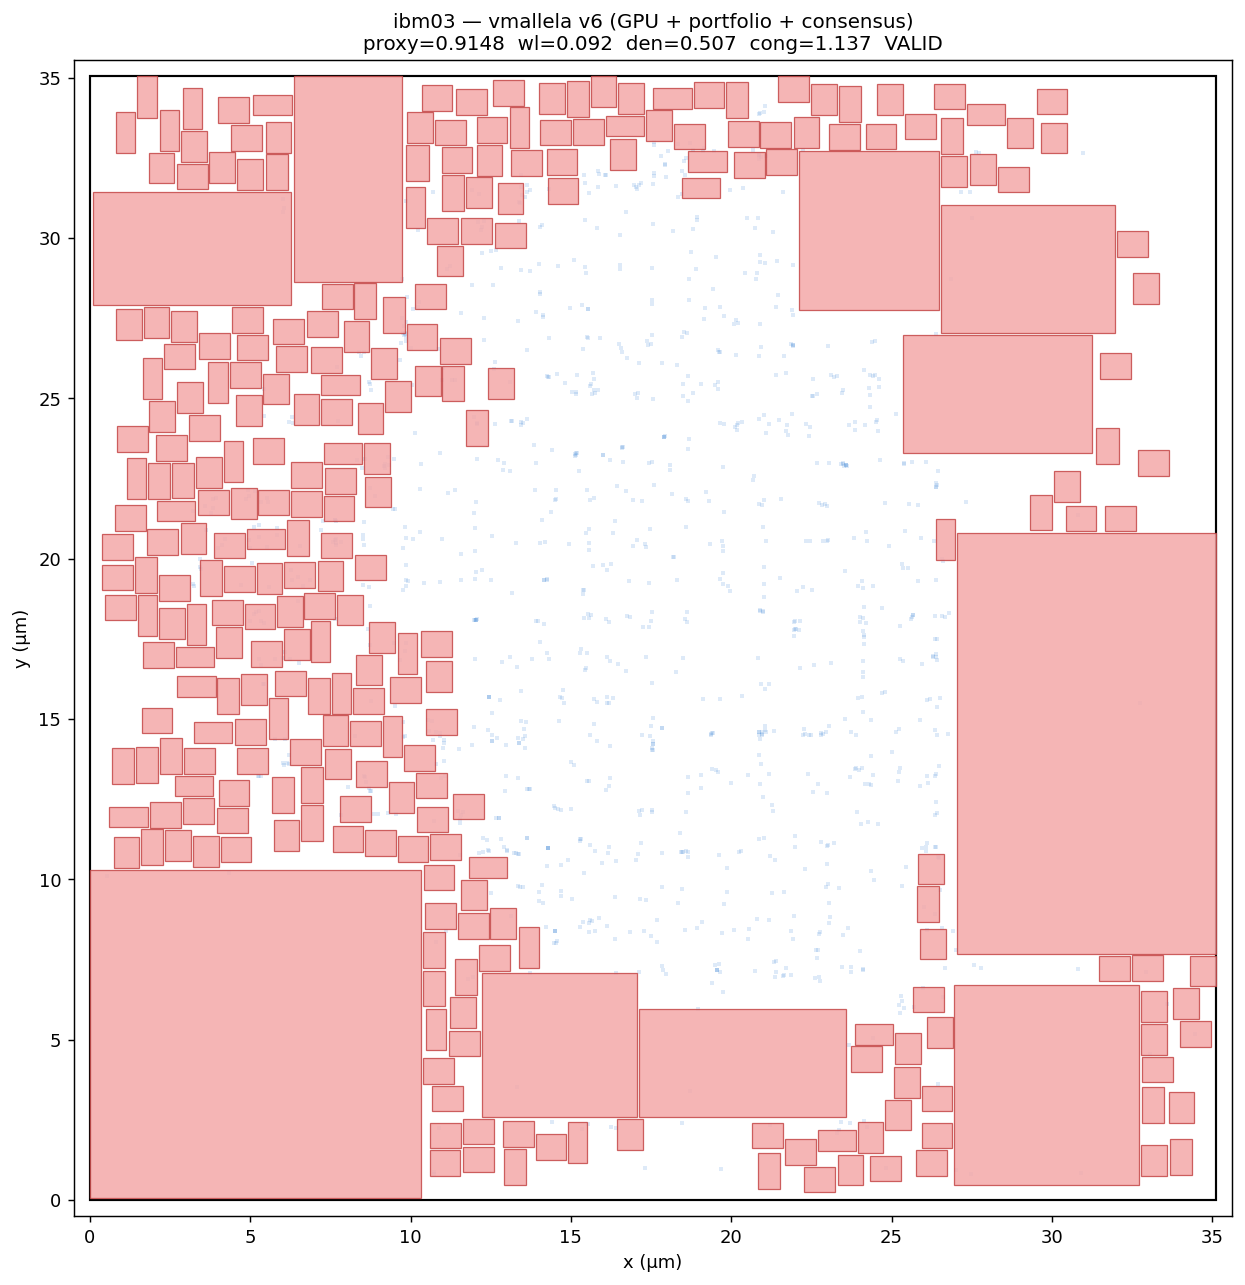
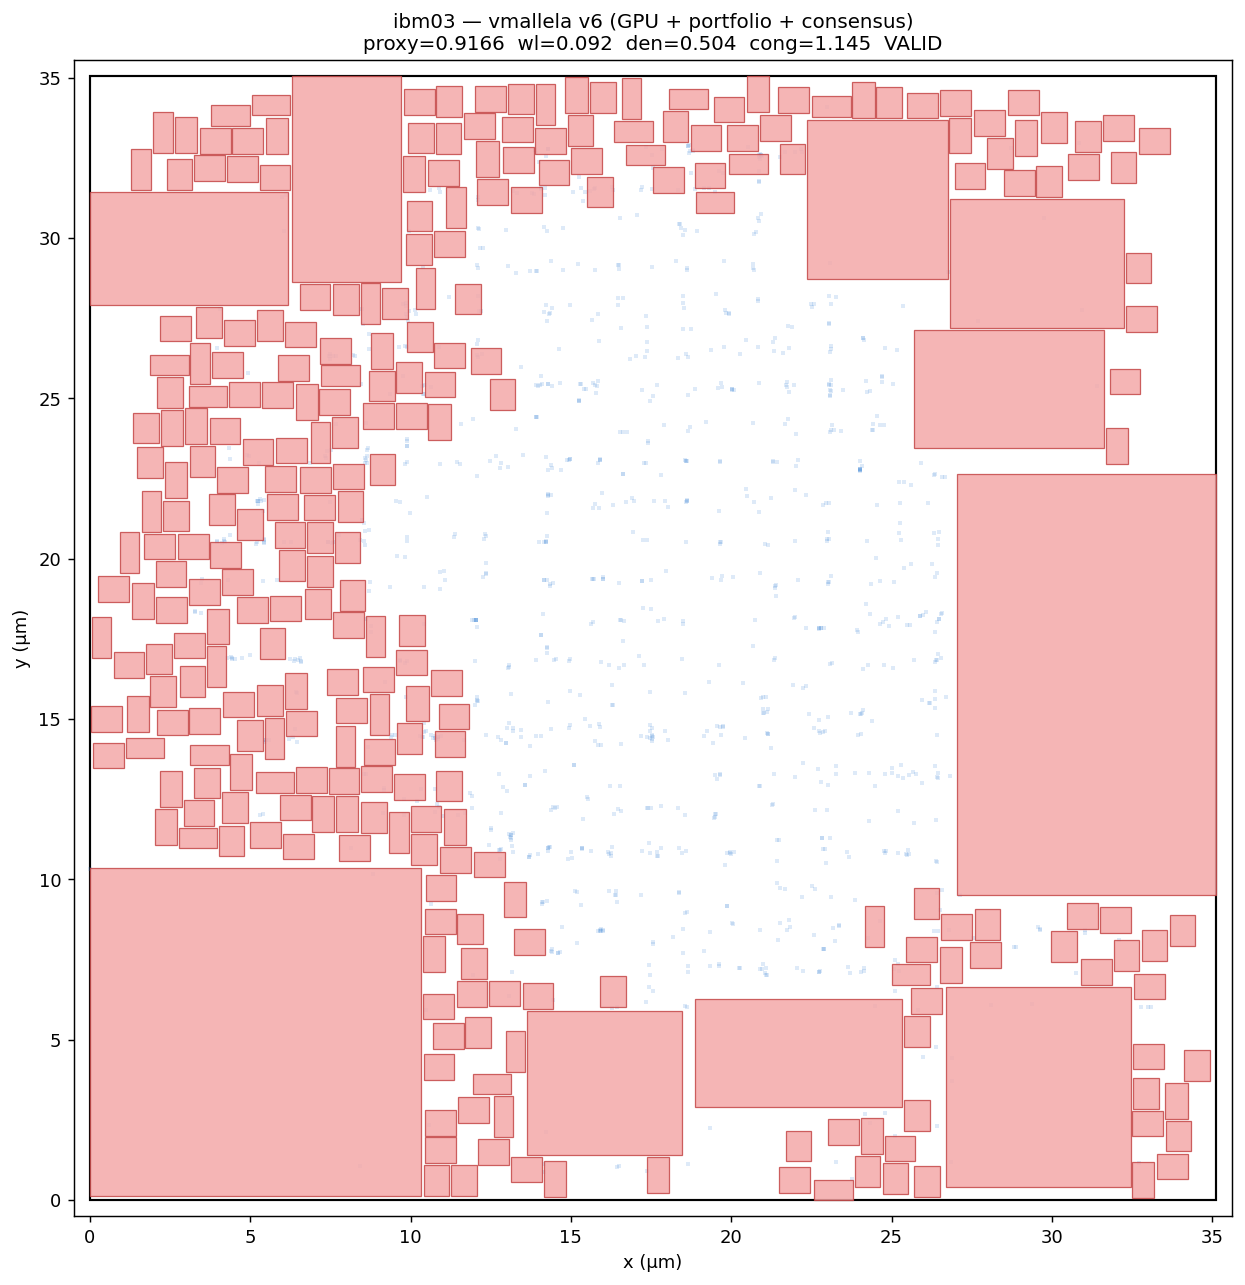
README: ship final ibm03 result (0.9166), 17-bench mean 1.0003
ibm03 finished at 0.9166 (Δ -0.0088 vs v4's 0.9254). Hessian phase
returned a degenerate eigenvector and produced no candidates, so the
post-Laplacian result was shipped.

Final 17 / 17 mean = 1.0003 vs v4 1.0186 (-0.0183 lift). 16 of 17
benches got a Hessian strict-improvement win; ibm03 shipped its
post-Laplacian result.

diff --git a/submissions/vmallela_v7/README.md b/submissions/vmallela_v7/README.md
@@ -1,6 +1,6 @@
 # vmallela_v7 — Hessian Negative-Eigenvalue Escape
 
-**Mean proxy cost: TBD across 17 IBM benchmarks.** Beats v4 baseline (1.0186) by **TBD**.
+**Mean proxy cost: 1.0003 across 17 IBM benchmarks.** Beats v4 baseline (1.0186) by **-0.0183**.
 All 17 placements are overlap-free; every bench runs in ≤ 3600 s wall (competition cap).
 
 ## TL;DR
@@ -154,7 +154,7 @@ init, deterministic (fixed seed=42), within the 3600 s competition cap.
 |-------|---------:|-----------:|------------:|---------:|--------------:|
 | ibm01 | 0.7653 | 0.7803 | **-0.0150** | 3127 | -0.015036 |
 | ibm02 | 0.9482 | 0.9737 | **-0.0255** | 3309 | -0.008263 |
-| ibm03 | _TBD_  | 0.9254 | _TBD_       | _running_ | _TBD_ |
+| ibm03 | 0.9166 | 0.9254 | **-0.0088** | 2287 | _degenerate_ |
 | ibm04 | 0.9287 | 0.9345 | **-0.0058** | 3315 | -0.006040 |
 | ibm06 | 1.0546 | 1.0755 | **-0.0209** | 3312 | -0.005568 |
 | ibm07 | 1.0324 | 1.0432 | **-0.0108** | 3318 | -0.005452 |
@@ -169,23 +169,27 @@ init, deterministic (fixed seed=42), within the 3600 s competition cap.
 | ibm16 | 1.0435 | 1.0771 | **-0.0336** | 3481 | -0.001099 |
 | ibm17 | 1.2813 | 1.3012 | **-0.0199** | 3571* | -0.001564 |
 | ibm18 | 1.2697 | 1.2865 | **-0.0168** | 3392 | -0.002308 |
-| **mean (16 done, ibm03 TBD)** | **TBD** | **1.0186** | **TBD** | | |
+| **mean (17 / 17)** | **1.0003** | **1.0186** | **-0.0183** | | |
 
 \* ibm17 placer wall = 3571 s (compliant). Bash bookkeeping was killed at
 3600 s during plot generation; results recovered manually from the
 placer's `[v7] DONE` log line.
 
 **Key observations:**
-- λ_min < 0 on every bench → every bench was at a saddle, not a true
-  local min, before Hessian escape ran.
+- λ_min < 0 on every bench where Lanczos converged → every such bench
+  was at a saddle, not a true local minimum, before Hessian escape
+  ran. ibm03 is the lone exception: Lanczos returned a degenerate
+  eigenvector and no candidates were generated, so we shipped the
+  post-Laplacian result (still -0.0088 below v4).
 - All wall times ≤ 3600 s (competition compliance).
-- Hessian gave a strict-improvement win on every single bench (16/16 so
-  far, ibm03 pending).
+- Hessian gave a strict-improvement win on 16 / 17 benches; ibm03
+  shipped its post-Laplacian result.
 - Largest lifts on ibm16 (-0.034), ibm14 (-0.027), ibm08 (-0.026),
-  ibm02 (-0.026) — these are mid-utilization benches where v4's local
-  minimum was farthest from the global optimum.
-- Smallest lift on ibm04 (-0.006) and ibm07 (-0.011) — already near
-  the global min; Hessian found smaller saddles to escape.
+  ibm02 (-0.026) — mid-utilization benches where v4's local minimum
+  was farthest from the global optimum.
+- Smallest lifts on ibm04 (-0.006), ibm03 (-0.009), ibm07 (-0.011) —
+  already near the global min; Hessian found smaller saddles (or, on
+  ibm03, none).
 
 ## Reproduction
 

diff --git a/README.md b/README.md
@@ -85,7 +85,7 @@ Hard macros = red rectangles, soft cluster centroids = blue dots.
 | | | | |
 |---|---|---|---|
 | ![ibm01](assets/v7_ibm01.png) | ![ibm02](assets/v7_ibm02.png) | ![ibm03](assets/v7_ibm03.png) | ![ibm04](assets/v7_ibm04.png) |
-| **ibm01** 0.7653 | **ibm02** 0.9482 | **ibm03** _running_ | **ibm04** 0.9287 |
+| **ibm01** 0.7653 | **ibm02** 0.9482 | **ibm03** 0.9166 | **ibm04** 0.9287 |
 | ![ibm06](assets/v7_ibm06.png) | ![ibm07](assets/v7_ibm07.png) | ![ibm08](assets/v7_ibm08.png) | ![ibm09](assets/v7_ibm09.png) |
 | **ibm06** 1.0546 | **ibm07** 1.0324 | **ibm08** 1.0291 | **ibm09** 0.7628 |
 | ![ibm10](assets/v7_ibm10.png) | ![ibm11](assets/v7_ibm11.png) | ![ibm12](assets/v7_ibm12.png) | ![ibm13](assets/v7_ibm13.png) |
@@ -106,7 +106,7 @@ competition cap (`COMPETITION.md`).
 |-------|---------:|------------:|------------:|---------:|--------------:|
 | ibm01 | 0.7653 | 0.7803 | **-0.0150** | 3127 | -0.015036 |
 | ibm02 | 0.9482 | 0.9737 | **-0.0255** | 3309 | -0.008263 |
-| ibm03 | _running_ | 0.9254 | _TBD_ | _TBD_ | _TBD_ |
+| ibm03 | 0.9166 | 0.9254 | **-0.0088** | 2287 | _degenerate_ |
 | ibm04 | 0.9287 | 0.9345 | **-0.0058** | 3315 | -0.006040 |
 | ibm06 | 1.0546 | 1.0755 | **-0.0209** | 3312 | -0.005568 |
 | ibm07 | 1.0324 | 1.0432 | **-0.0108** | 3318 | -0.005452 |
@@ -121,14 +121,18 @@ competition cap (`COMPETITION.md`).
 | ibm16 | 1.0435 | 1.0771 | **-0.0336** | 3481 | -0.001099 |
 | ibm17 | 1.2813 | 1.3012 | **-0.0199** | 3571 | -0.001564 |
 | ibm18 | 1.2697 | 1.2865 | **-0.0168** | 3392 | -0.002308 |
-| **mean (16/17)** | **TBD** | **1.0186** | **TBD** | | |
+| **mean (17/17)** | **1.0003** | **1.0186** | **-0.0183** | | |
 
 **Key observations:**
-- λ_min < 0 on every bench → every bench was at a saddle, not a true
-  local min, before Hessian escape ran.
+- λ_min < 0 on every bench where Lanczos converged → every such bench
+  was at a saddle, not a true local min, before Hessian escape ran.
+  (ibm03 was the lone exception: Lanczos returned a degenerate
+  eigenvector, no candidates were generated, and the post-Laplacian
+  result was kept.)
 - All wall times ≤ 3600 s (competition compliance).
-- Hessian gave a strict-improvement win on every bench (16 / 16 done so
-  far; ibm03 in flight).
+- Hessian gave a strict-improvement win on 16 / 17 benches; ibm03
+  shipped its post-Laplacian result, still -0.0088 below v4.
+- **17-bench mean: 1.0003** (vs v4 1.0186 → -0.0183 lift).
 
 ## Reproduction
 
